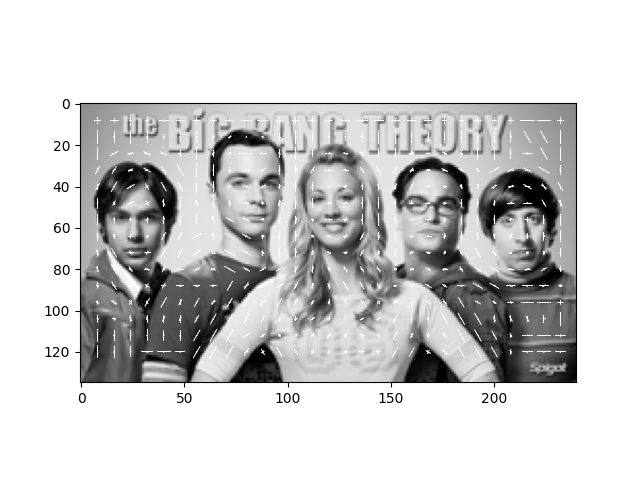
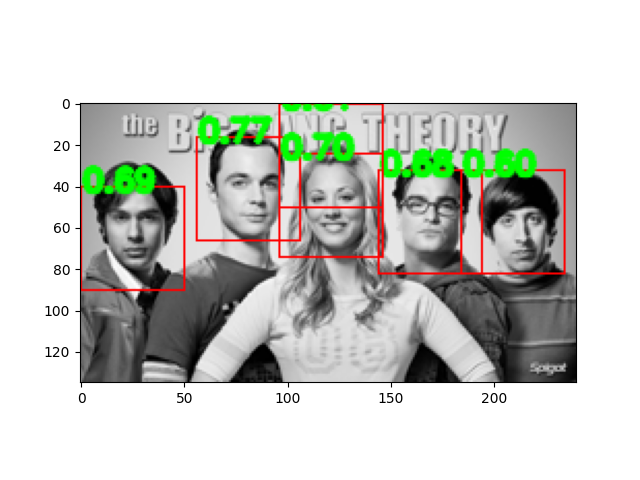
fix non maximum suppression, but the individual hog still in progress

Changed region(s): [[0.125, 0.2188, 0.9062, 0.625], [0.7188, 0.6562, 0.75, 0.6875], [0.2812, 0.6875, 0.3125, 0.7188]]

diff --git a/hw1/HOG_ver1.py b/hw1/HOG_ver1.py
@@ -103,7 +103,7 @@ def extract_hog(im):
     hog = get_block_descriptor(histo, 2)
 
     # visualize to verify
-    visualize_hog(im, hog, 8, 2)
+    # visualize_hog(im, hog, 8, 2)
 
     return hog
 
@@ -132,6 +132,8 @@ def face_recognition(I_target, I_template):
     # To do
     bounding_boxes = np.empty([0, 3])
     hog_template = extract_hog(I_template)
+
+    # HoG over whole target version
     hog_target = extract_hog(I_target)
     for i in range(hog_target.shape[0] - hog_template.shape[0]):
         for j in range(hog_target.shape[1] - hog_template.shape[1]):
@@ -147,13 +149,43 @@ def face_recognition(I_target, I_template):
             norm_template = np.sqrt(norm_template)
             norm_target = np.sqrt(norm_target)
             s_i = s_i / (norm_template * norm_target)
-
             if (s_i > 0.6):
                 bounding_boxes = np.append(bounding_boxes, np.array([[j * 8, i * 8, s_i]]), axis=0)
+
+    # HoG individully version
+    # for i in range(0, I_target.shape[0] - I_template.shape[0], 4):
+    #     print(i)
+    #     for j in range(0, I_target.shape[1] - I_template.shape[1], 4):
+    #         I_target_sub = np.empty(I_template.shape)
+    #         for k in range(I_template.shape[0]):
+    #             for l in range(I_template.shape[1]):
+    #                 I_target_sub[k][l] = I_target[i + k][j + l]
+    #         hog_target = extract_hog(I_target_sub)
+
+    #         s_i = 0
+    #         norm_template = 0
+    #         norm_target = 0
+    #         for k in range(hog_template.shape[0]):
+    #             for l in range(hog_template.shape[1]):
+    #                 for m in range(24):
+    #                     norm_template += hog_template[k][l][m] ** 2
+    #                     norm_target += hog_target[k][l][m] ** 2
+    #                     s_i += hog_template[k][l][m] * hog_target[k][l][m]
+    #         norm_template = np.sqrt(norm_template)
+    #         norm_target = np.sqrt(norm_target)
+    #         s_i = s_i / (norm_template * norm_target)
+
+    #         if (s_i > 0.65):
+    #             bounding_boxes = np.append(bounding_boxes, np.array([[j, i, s_i]]), axis=0)
     
+    # Non Maximum Suppression
     two_bounding_boxes_area = I_template.shape[0] * I_template.shape[0] * 2
+    bounding_boxes = np.array(sorted(bounding_boxes, reverse=True, key = lambda x:x[2]))
     for i in range(bounding_boxes.shape[0]):
+        # print(bounding_boxes)
         delete_list = []
+
+        # Calculate IoU
         for j in range(i + 1, bounding_boxes.shape[0]):
             IoU = 0
             intersection = 0
@@ -164,9 +196,9 @@ def face_recognition(I_target, I_template):
             IoU = intersection / (two_bounding_boxes_area - intersection)
 
             if (IoU > 0.5):
-                print(bounding_boxes[j])
                 delete_list.append(j)
         bounding_boxes = np.delete(bounding_boxes, delete_list, 0)
+
     return bounding_boxes
 
 
